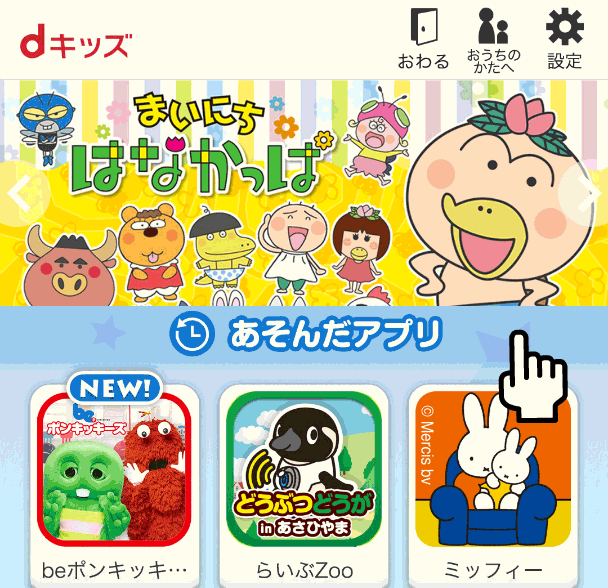
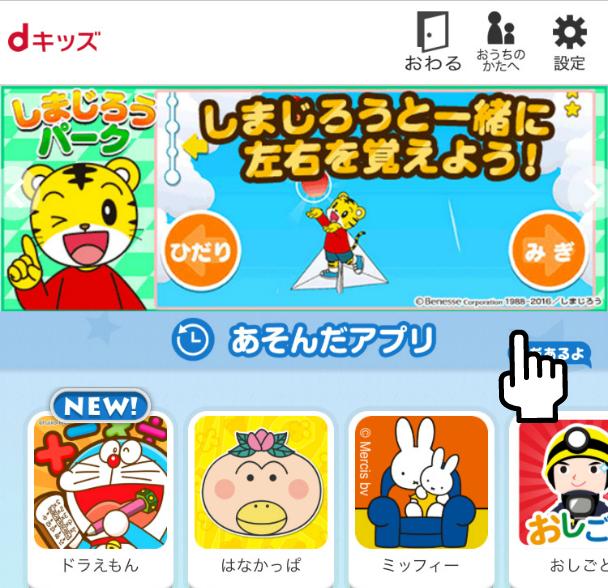
微調整

diff --git a/L-3-1.html b/L-3-1.html
@@ -18,10 +18,10 @@
         <form action="module.html">
 
           <div class="app_ttl_area">
-            <figure class="app_ttl"><img src="/common/images/app/doubutsu_douga.png" alt="" width="82" height="82"></figure>
+            <figure class="app_ttl"><img src="/common/images/app/oshigoto.png" alt="" width="82" height="82"></figure>
             <div class="txt app_detail">
-              <h3>Live Zoo In あさひやま</h3>
-              <p>音楽やフォニックスなど楽しく英語で遊べるコンテンツがもりだくさん</p>
+              <h3>おしごとコレクション</h3>
+              <p>しょうぼうしにケーキやさん、スポーツせんしゅ、びようし、パイロット、アイドル！いろんな「おしごと」が体験できるよ！</p>
             </div>
           </div>
 

diff --git a/C-7_register.html b/C-7_register.html
@@ -12,6 +12,7 @@
 
     <p class="center mb"><a class="btn red iblock" href="#">dアカウントをお持ちの方</a></p>
     <p class="center mb"><a class="btn iblock" href="#">dアカウントをお持ちでない方</a></p>
+    <p class="center mb">※SPモード契約の方は「dアカウントをお持ちの方」よりお申し込みください。</p>
     <p class="center mb"><a href="#">ご利用規約</a>に同意の上、ご登録ください。</p>
 
     <!-- item -->
